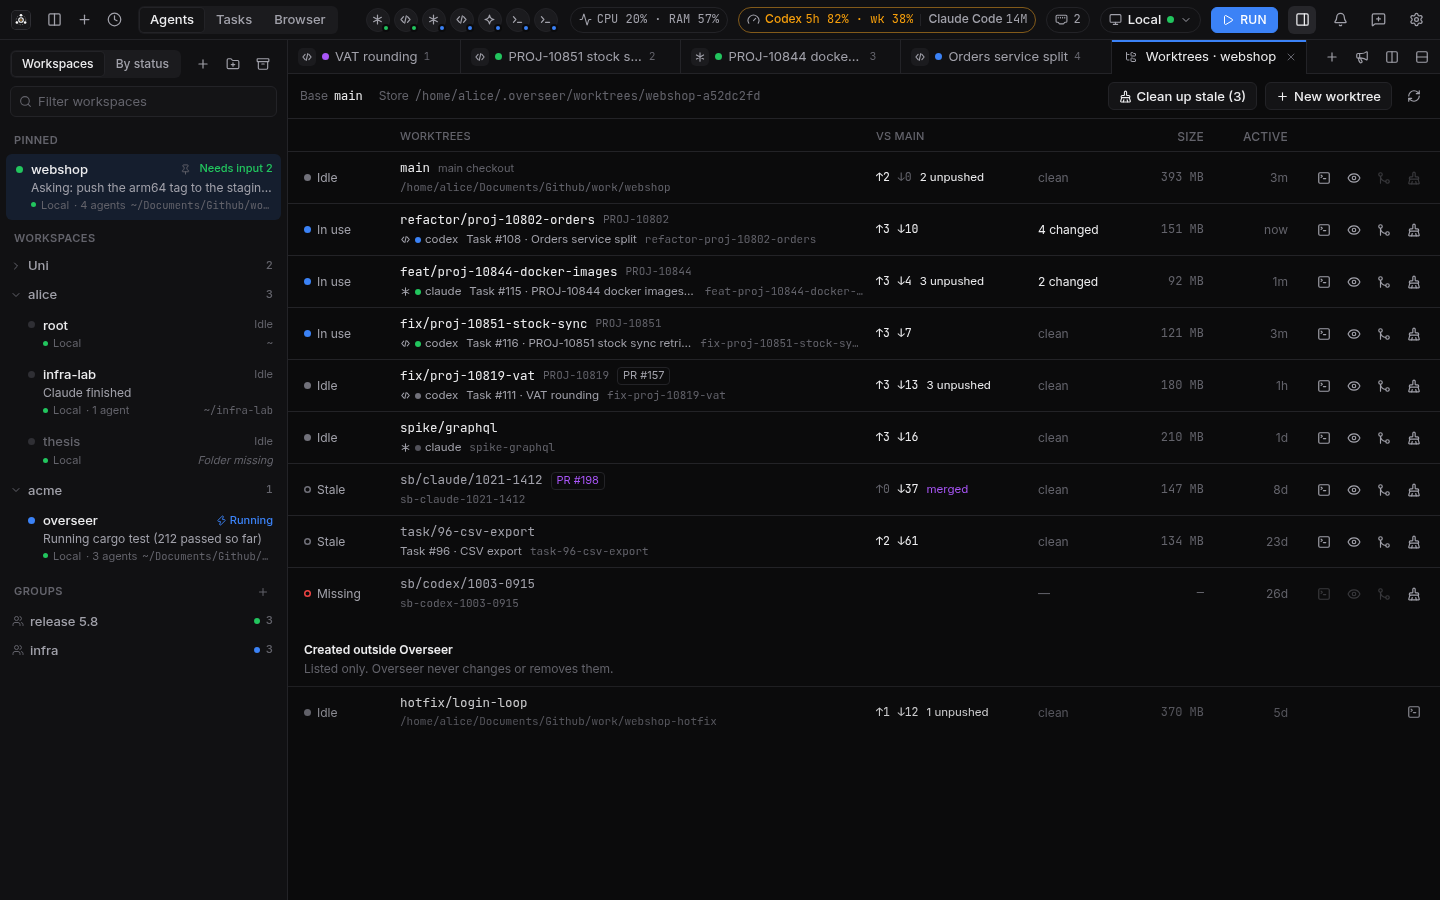
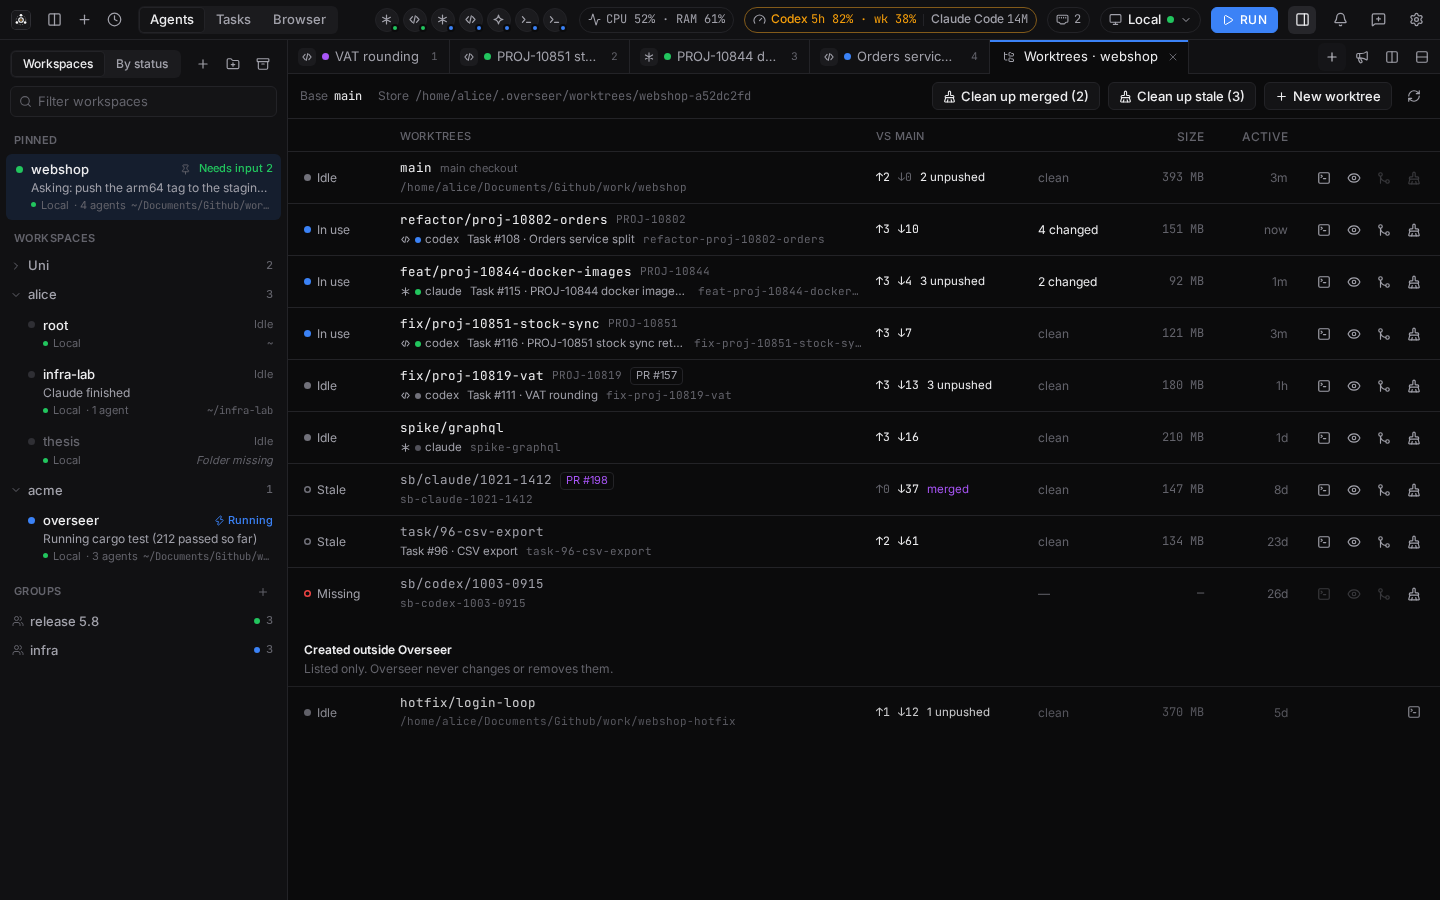
feat(worktrees): clean up merged worktrees with no agent, with a selector
Add a "Clean up merged (n)" button to the Worktrees panel that picks the
managed worktrees merged into the base (or missing on disk) with no agent
session, terminal or uncommitted change. The cleanup dialog now lists each
runnable worktree with a checkbox so the user unticks the ones to keep.

Also fix the Worktrees rows overlapping on narrow screens, add the 0.29
tour step, and update the README, user guide, QA path and screenshots.

diff --git a/app/src/lib/tour/steps.test.ts b/app/src/lib/tour/steps.test.ts
@@ -83,23 +83,21 @@ describe('tour versioning', () => {
 
   it('shows the organize step to users who saw the 0.15 tour', () => {
     expect(modeFor(1)).toBe('whatsNew');
-    expect(stepsFor('whatsNew', 1).map((s) => s.id)).toEqual(['organize', 'settings', 'paletteKey', 'demo', 'gpuTerminal']);
+    expect(stepsFor('whatsNew', 1).map((s) => s.id)).toEqual(['organize', 'settings', 'paletteKey', 'demo', 'gpuTerminal', 'worktreeCleanup']);
     expect(stepsFor('full', undefined).map((s) => s.id)).toContain('organize');
     expect(targetOf(STEPS.find((s) => s.id === 'organize')!, (n) => n === 'workspaces')).toBe('workspaces');
   });
 
-  it('shows the 0.25, 0.27 and 0.28 steps to users who saw 0.24', () => {
+  it('shows the 0.25 to 0.29 steps to users who saw 0.24', () => {
     expect(modeFor('0.24')).toBe('whatsNew');
-    expect(stepsFor('whatsNew', '0.24').map((s) => s.id)).toEqual(['settings', 'paletteKey', 'demo', 'gpuTerminal']);
+    expect(stepsFor('whatsNew', '0.24').map((s) => s.id)).toEqual(['settings', 'paletteKey', 'demo', 'gpuTerminal', 'worktreeCleanup']);
     expect(stepsFor('full', undefined).map((s) => s.id)).toContain('settings');
     expect(targetOf(STEPS.find((s) => s.id === 'settings')!, (n) => n === 'settings')).toBe('settings');
   });
 
-  it('shows only the GPU rendering step to users who saw 0.27', () => {
-    expect(TOUR_VERSION).toBe('0.28');
+  it('shows the GPU rendering and worktree cleanup steps to users who saw 0.27', () => {
     expect(modeFor('0.27')).toBe('whatsNew');
-    expect(stepsFor('whatsNew', '0.27').map((s) => s.id)).toEqual(['gpuTerminal']);
-    expect(modeFor('0.28')).toBeNull();
+    expect(stepsFor('whatsNew', '0.27').map((s) => s.id)).toEqual(['gpuTerminal', 'worktreeCleanup']);
   });
 
   it('points the demo step at the Demo mode pill in the demo, else at the host chip', () => {
@@ -114,15 +112,22 @@ describe('tour versioning', () => {
 
   it('shows the steps added after 0.17 to users who saw the 0.17 tour', () => {
     expect(modeFor('0.17')).toBe('whatsNew');
-    expect(stepsFor('whatsNew', '0.17').map((s) => s.id)).toEqual(['settings', 'paletteKey', 'demo', 'gpuTerminal']);
+    expect(stepsFor('whatsNew', '0.17').map((s) => s.id)).toEqual(['settings', 'paletteKey', 'demo', 'gpuTerminal', 'worktreeCleanup']);
     expect(STEPS.find((s) => s.id === 'paletteKey')?.since).toBe('0.25');
   });
 
-  it('shows the 0.27 and 0.28 steps to users who saw 0.26', () => {
+  it('shows the 0.27, 0.28 and 0.29 steps to users who saw 0.26', () => {
     expect(modeFor('0.26')).toBe('whatsNew');
-    expect(stepsFor('whatsNew', '0.26').map((s) => s.id)).toEqual(['demo', 'gpuTerminal']);
+    expect(stepsFor('whatsNew', '0.26').map((s) => s.id)).toEqual(['demo', 'gpuTerminal', 'worktreeCleanup']);
     expect(STEPS.find((s) => s.id === 'gpuTerminal')?.since).toBe('0.28');
-    expect(TOUR_VERSION).toBe('0.28');
+  });
+
+  it('shows only the worktree cleanup step to users who saw 0.28', () => {
+    expect(TOUR_VERSION).toBe('0.29');
+    expect(modeFor('0.28')).toBe('whatsNew');
+    expect(stepsFor('whatsNew', '0.28').map((s) => s.id)).toEqual(['worktreeCleanup']);
+    expect(modeFor('0.29')).toBeNull();
+    expect(targetOf(STEPS.find((s) => s.id === 'worktreeCleanup')!, (n) => n === 'palette')).toBe('palette');
   });
 
   it('points the GPU rendering step at settings, or the More tab on a phone', () => {
@@ -134,7 +139,7 @@ describe('tour versioning', () => {
   it('shows nothing once the current release was seen', () => {
     expect(modeFor('0.25', '0.25')).toBeNull();
     expect(modeFor('0.26', '0.25')).toBeNull();
-    expect(modeFor('0.28')).toBeNull();
+    expect(modeFor('0.29')).toBeNull();
     expect(modeFor(2, '0.17')).toBeNull();
   });
 });

diff --git a/app/src/lib/git/CleanupDialog.svelte b/app/src/lib/git/CleanupDialog.svelte
@@ -3,7 +3,8 @@
   import { t } from '../i18n.svelte';
   import { app } from '../state.svelte';
   import { gitApi } from './api';
-  import { cleanupTargets, planLines, runCleanup } from './cleanup';
+  import { SvelteSet } from 'svelte/reactivity';
+  import { chosen, cleanupTargets, planLines, runCleanup } from './cleanup';
   import { gt } from './strings';
   import type { CleanupPlan, Worktree } from './types';
 
@@ -13,7 +14,10 @@
   let error = $state<string | null>(null);
   let busy = $state(false);
 
+  const skipped = new SvelteSet<string>();
   const runnable = $derived(cleanupTargets(plans ?? []));
+  const picked = $derived(chosen(runnable, skipped));
+  const toggle = (id: string) => (skipped.has(id) ? skipped.delete(id) : skipped.add(id));
   const byId = $derived(new Map(worktrees.map((w) => [w.id, w])));
 
   $effect(() => {
@@ -25,7 +29,7 @@
 
   async function confirm() {
     busy = true;
-    const r = await runCleanup(gitApi(app.client!), runnable, (id) => byId.get(id)?.project);
+    const r = await runCleanup(gitApi(app.client!), picked, (id) => byId.get(id)?.project);
     busy = false;
     if (r.failed.length) app.notify(r.failed.map((f) => f.error).join(' · '), 'error');
     if (r.done.length) app.notify(gt('cleaned', { n: r.done.length }));
@@ -45,10 +49,13 @@
       {#each plans as p (p.id)}
         {@const w = byId.get(p.id)}
         <li class:refused={!!p.refused}>
-          <div class="title">
-            <span class="mono branch">{w?.branch ?? '—'}</span>
-            <span class="mono faint path">{p.id}</span>
-          </div>
+          <label class="title">
+            {#if runnable.includes(p.id)}<input type="checkbox" aria-label={gt('pick')} checked={!skipped.has(p.id)} disabled={busy} onchange={() => toggle(p.id)} />{/if}
+            <span class="names">
+              <span class="mono branch">{w?.branch ?? '—'}</span>
+              <span class="mono faint path">{p.id}</span>
+            </span>
+          </label>
           {#each planLines(p) as l, i (i)}
             <div class="line {l.kind}">
               <span class="tag">{l.kind === 'remove' ? '−' : l.kind === 'keep' ? '=' : '!'}</span>
@@ -62,8 +69,8 @@
   {/if}
   {#snippet footer()}
     <button class="btn" onclick={onclose}>{t('common.cancel')}</button>
-    <button class="btn danger" disabled={busy || !runnable.length} onclick={confirm}>
-      {runnable.length ? gt('confirmCleanup', { n: runnable.length }) : gt('nothingToClean')}
+    <button class="btn danger" disabled={busy || !picked.length} onclick={confirm}>
+      {runnable.length ? gt('confirmCleanup', { n: picked.length }) : gt('nothingToClean')}
     </button>
   {/snippet}
 </Modal>
@@ -87,8 +94,17 @@
   }
   .title {
     display: flex;
-    flex-direction: column;
+    gap: 8px;
+    align-items: flex-start;
     margin-bottom: 6px;
+  }
+  .title input {
+    margin-top: 2px;
+  }
+  .names {
+    display: flex;
+    flex-direction: column;
+    min-width: 0;
   }
   .branch {
     font-size: 12.5px;

diff --git a/app/src/lib/git/WorktreesPanel.svelte b/app/src/lib/git/WorktreesPanel.svelte
@@ -15,7 +15,7 @@
   import { gt, type GKey } from './strings';
   import { openReview } from '../review/open';
   import type { Worktree, WorktreeList } from './types';
-  import { cleanable, formatSize, sortWorktrees } from './view';
+  import { cleanable, formatSize, sortWorktrees, unused } from './view';
 
   let { projectPath }: { projectPath: string } = $props();
 
@@ -26,6 +26,7 @@
 
   const list = $derived(data ? sortWorktrees(data.worktrees) : []);
   const stale = $derived(list.filter(cleanable));
+  const idle = $derived(list.filter(unused));
   const err = (e: unknown) => String((e as Error)?.message ?? e);
 
   async function load() {
@@ -149,6 +150,7 @@
       <span class="faint sep">{gt('store')}</span><span class="mono faint store" title={data?.store}>{data?.store ?? '…'}</span>
     </div>
     <span class="spacer"></span>
+    <button class="btn" title={gt('cleanupUnusedHint')} disabled={!idle.length} onclick={() => (cleaning = idle)}><BrushCleaning size={13} />{gt('cleanupUnused', { n: idle.length })}</button>
     <button class="btn" disabled={!stale.length} onclick={() => (cleaning = stale)}><BrushCleaning size={13} />{gt('cleanupStale', { n: stale.length })}</button>
     <button class="btn" disabled={!data || busy !== null} onclick={newWorktree}><Plus size={13} />{gt('newWorktreeBtn')}</button>
     <button class="icon-btn" title={gt('refresh')} aria-label={gt('refresh')} onclick={load}><RefreshCw size={14} /></button>
@@ -183,6 +185,7 @@
 
 <style>
   .panel {
+    container-type: inline-size;
     display: flex;
     flex-direction: column;
     height: 100%;
@@ -193,6 +196,7 @@
     display: flex;
     align-items: center;
     gap: 8px;
+    flex-wrap: wrap;
     padding: 8px 12px;
     border-bottom: 1px solid var(--border);
   }
@@ -293,6 +297,7 @@
     align-items: center;
     min-width: 0;
     white-space: nowrap;
+    overflow: hidden;
   }
   .branch {
     font-size: 12.5px;
@@ -397,5 +402,26 @@
   }
   .err {
     color: var(--st-failed);
+  }
+  @container (max-width: 720px) {
+    .wt {
+      grid-template-columns: 72px minmax(0, 1fr) auto;
+      padding: 6px 8px 6px 12px;
+    }
+    .cols,
+    .sync,
+    .dirty,
+    .num,
+    .top .small,
+    .top .pr {
+      display: none;
+    }
+    .toolbar .meta {
+      flex-basis: 100%;
+    }
+    .branch {
+      overflow: hidden;
+      text-overflow: ellipsis;
+    }
   }
 </style>

diff --git a/app/src/lib/git/view.test.ts b/app/src/lib/git/view.test.ts
@@ -1,6 +1,6 @@
 import { describe, expect, it } from 'vitest';
 import type { GraphCommit, Worktree } from './types';
-import { authors, cleanable, commitUrl, dimmed, formatSize, labelsBySha, needsMore, ROW_H, scrollToRow, searchMatches, sortWorktrees, stepMatch, visibleRange } from './view';
+import { authors, cleanable, commitUrl, dimmed, formatSize, labelsBySha, needsMore, ROW_H, scrollToRow, searchMatches, sortWorktrees, stepMatch, unused, visibleRange } from './view';
 
 const commit = (sha: string, subject: string, author = 'Ada'): GraphCommit => ({ sha, parents: [], author, email: '', at: '2026-10-29T09:00:00Z', subject });
 
@@ -124,5 +124,18 @@ describe('worktree helpers', () => {
     expect(cleanable(w({ state: 'missing' }))).toBe(true);
     expect(cleanable(w({ state: 'idle' }))).toBe(false);
     expect(cleanable(w({ state: 'stale', kind: 'orphan' }))).toBe(false);
+  });
+
+  it('offers unused cleanup only for merged or missing worktrees with no agent, terminal or change', () => {
+    expect(unused(w({ state: 'stale', merged: true }))).toBe(true);
+    expect(unused(w({ state: 'missing' }))).toBe(true);
+    expect(unused(w({ state: 'idle', merged: true }))).toBe(true);
+    expect(unused(w({ state: 'stale', merged: false }))).toBe(false);
+    expect(unused(w({ state: 'in_use', merged: true }))).toBe(false);
+    expect(unused(w({ state: 'stale', merged: true, dirty: true }))).toBe(false);
+    expect(unused(w({ state: 'stale', merged: true, termIds: ['t1'] }))).toBe(false);
+    expect(unused(w({ state: 'stale', merged: true, lines: [{ id: 'l1', agent: 'claude', state: 'held', busy: false, needsInput: false }] }))).toBe(false);
+    expect(unused(w({ state: 'stale', merged: true, kind: 'orphan' }))).toBe(false);
+    expect(unused(w({ state: 'stale', merged: true, kind: 'main' }))).toBe(false);
   });
 });

diff --git a/app/src/lib/i18n/en.ts b/app/src/lib/i18n/en.ts
@@ -1132,6 +1132,9 @@ export const en = {
   'git.merged2': '{base} merged into {branch}',
   'git.cleanup': 'Clean up',
   'git.cleanupStale': 'Clean up stale ({n})',
+  'git.cleanupUnused': 'Clean up merged ({n})',
+  'git.cleanupUnusedHint': 'Merged or missing worktrees with no agent, terminal or uncommitted change',
+  'git.pick': 'Remove this worktree',
   'git.cleanupTitle': 'Clean up worktrees',
   'git.cleanupIntro': 'Preview. Nothing is removed until you confirm.',
   'git.removeDir': 'Remove the worktree directory',
@@ -1531,6 +1534,8 @@ export const en = {
   'tour.organize.phone': 'Find Organize my sessions in More: it proposes workspaces, groups and clean-up, and shows where to pick up.',
   'tour.gpuTerminal.title': 'GPU rendering for terminals',
   'tour.gpuTerminal.body': 'Settings, Terminal has a new GPU rendering option. It draws terminals with WebGL, which keeps long output smooth. It is off by default and experimental; without hardware graphics acceleration the normal renderer is used.',
+  'tour.worktreeCleanup.title': 'Clean up unused worktrees',
+  'tour.worktreeCleanup.body': 'Open the worktrees from the palette: Clean up merged lists the worktrees already merged, with no agent, terminal or uncommitted change. Untick the ones to keep, then confirm.',
   'tour.gpuTerminal.phone': 'Open More, then Settings, Terminal, to turn on GPU rendering. It draws terminals with WebGL and is off by default.',
   'tour.settings.title': 'Settings, searchable',
   'tour.settings.body': 'Settings are grouped in a sidebar: General, Terminal, Agents, Notifications, Connection, Updates and Help. Type in the search box to find any setting by name.',

diff --git a/app/src/lib/tour/steps.ts b/app/src/lib/tour/steps.ts
@@ -1,4 +1,4 @@
-export type StepId = 'host' | 'workspaces' | 'tabs' | 'view' | 'panel' | 'kanban' | 'review' | 'chips' | 'notify' | 'profiles' | 'palette' | 'paletteKey' | 'organize' | 'settings' | 'feedback' | 'demo' | 'gpuTerminal';
+export type StepId = 'host' | 'workspaces' | 'tabs' | 'view' | 'panel' | 'kanban' | 'review' | 'chips' | 'notify' | 'profiles' | 'palette' | 'paletteKey' | 'organize' | 'settings' | 'feedback' | 'demo' | 'gpuTerminal' | 'worktreeCleanup';
 
 export interface Step {
   id: StepId;
@@ -25,6 +25,7 @@ export const STEPS: Step[] = [
   { id: 'feedback', targets: ['feedback'], since: '0.15' },
   { id: 'paletteKey', targets: ['palette'], since: '0.25', center: true },
   { id: 'gpuTerminal', targets: ['settings', 'palette'], since: '0.28' },
+  { id: 'worktreeCleanup', targets: ['palette'], since: '0.29', center: true },
 ];
 
 export type Mode = 'full' | 'whatsNew';

diff --git a/app/src/lib/git/mockGit.test.ts b/app/src/lib/git/mockGit.test.ts
@@ -3,7 +3,7 @@ import { api } from '../api';
 import { MockDaemon } from '../mock';
 import type { DaemonEvent } from '../types';
 import { gitApi } from './api';
-import { cleanupTargets, planLines, runCleanup } from './cleanup';
+import { chosen, cleanupTargets, planLines, runCleanup } from './cleanup';
 import { layout } from './layout';
 import { GraphLoader } from './loader';
 
@@ -113,6 +113,8 @@ describe('mock worktrees', () => {
 
     const ids = cleanupTargets(plans);
     expect(ids).toEqual([merged.id, unmerged.id]);
+    expect(chosen(ids, new Set([unmerged.id]))).toEqual([merged.id]);
+    expect(chosen(ids, new Set())).toEqual(ids);
     const r = await runCleanup(g, [...ids, busy.id]);
     expect(r.done).toHaveLength(2);
     expect(r.failed).toEqual([{ id: busy.id, error: expect.stringContaining('in use') }]);

diff --git a/app/src/lib/tour/tour.test.ts b/app/src/lib/tour/tour.test.ts
@@ -75,7 +75,7 @@ describe('tour store', () => {
 
   it('only keeps steps whose target is on screen', () => {
     tour.start('full', (n) => n === 'host' || n === 'kanban');
-    expect(tour.steps.map((s) => s.id)).toEqual(['host', 'demo', 'kanban', 'palette', 'paletteKey']);
+    expect(tour.steps.map((s) => s.id)).toEqual(['host', 'demo', 'kanban', 'palette', 'paletteKey', 'worktreeCleanup']);
   });
 
   it('upgrades an old numeric version to the current release when finished', () => {

diff --git a/app/vite.config.ts b/app/vite.config.ts
@@ -66,7 +66,7 @@ export default defineConfig({
       include: ['src/lib/**/*.ts'],
       exclude: ['src/**/*.test.ts', 'src/**/types.ts', 'src/**/strings.ts', 'src/**/mock*.ts', 'src/lib/i18n/*.ts'],
       reporter: ['text-summary', 'json-summary'],
-      thresholds: { lines: 94, functions: 88, branches: 89, statements: 92 },
+      thresholds: { lines: 94, functions: 88, branches: 89, statements: 93 },
     },
   },
 });

diff --git a/app/src/lib/git/view.ts b/app/src/lib/git/view.ts
@@ -135,3 +135,7 @@ export function sortWorktrees(list: Worktree[]): Worktree[] {
 export function cleanable(w: Worktree): boolean {
   return w.kind === 'managed' && (w.state === 'stale' || w.state === 'missing');
 }
+
+export function unused(w: Worktree): boolean {
+  return w.kind === 'managed' && !w.lines.length && !w.termIds.length && !w.dirty && (w.state === 'missing' || (w.merged && w.state !== 'in_use'));
+}

diff --git a/app/src/lib/git/cleanup.ts b/app/src/lib/git/cleanup.ts
@@ -36,3 +36,7 @@ export async function runCleanup(api: GitApi, ids: string[], projectOf: (id: str
   }
   return { done, failed };
 }
+
+export function chosen(ids: string[], skipped: ReadonlySet<string>): string[] {
+  return ids.filter((id) => !skipped.has(id));
+}

diff --git a/docs/user-guide.md b/docs/user-guide.md
@@ -873,7 +873,7 @@ On first launch, once the app is connected (immediately in local mode, after the
 connection on a phone), a welcome card offers **Take the tour** or **Skip**. The tour dims the
 window and highlights the real controls one at a time: host chip, workspaces sidebar, tabs and the
 new-session menu, the Terminal/Chat toggle, the side panel, Tasks, Review, the usage, system and ports
-chips, notifications and hooks, the command palette and Feedback, in 0.25 the Cmd/Ctrl+P palette shortcut, and in 0.27 the demo mode (on the **Demo mode** pill while in the demo, else on the host chip), and in 0.28 the GPU rendering option for terminals. Steps whose control is not on
+chips, notifications and hooks, the command palette and Feedback, in 0.25 the Cmd/Ctrl+P palette shortcut, and in 0.27 the demo mode (on the **Demo mode** pill while in the demo, else on the host chip), and in 0.28 the GPU rendering option for terminals, and in 0.29 the clean up of unused worktrees. Steps whose control is not on
 screen (no session selected, a feature the server lacks, phone layout) are skipped. On a phone the
 card is a sheet at the bottom (or top, when the control sits low) and points at the bottom
 navigation, the session strip and the menu.
@@ -1749,6 +1749,10 @@ opt out). One place, outside your repositories:
   whose branch has commits that are neither pushed nor in the base. The branch is deleted only
   when every commit of it is in the base (or its PR is merged and the tip pushed); otherwise it
   is kept. Nothing is ever forced.
+- **Clean up merged (n)** in the Worktrees toolbar picks the worktrees nobody needs any more: merged
+  into the base (or missing on disk), with no agent session, no terminal and no uncommitted change.
+  The dialog lists each one with a checkbox, all ticked; untick the ones to keep, then confirm.
+  **Clean up stale** and the row's **Clean up** use the same checkboxes.
 
 ```
 P=$(python3 -c 'import urllib.parse,sys;print(urllib.parse.quote(sys.argv[1],safe=""))' ~/src/app)
